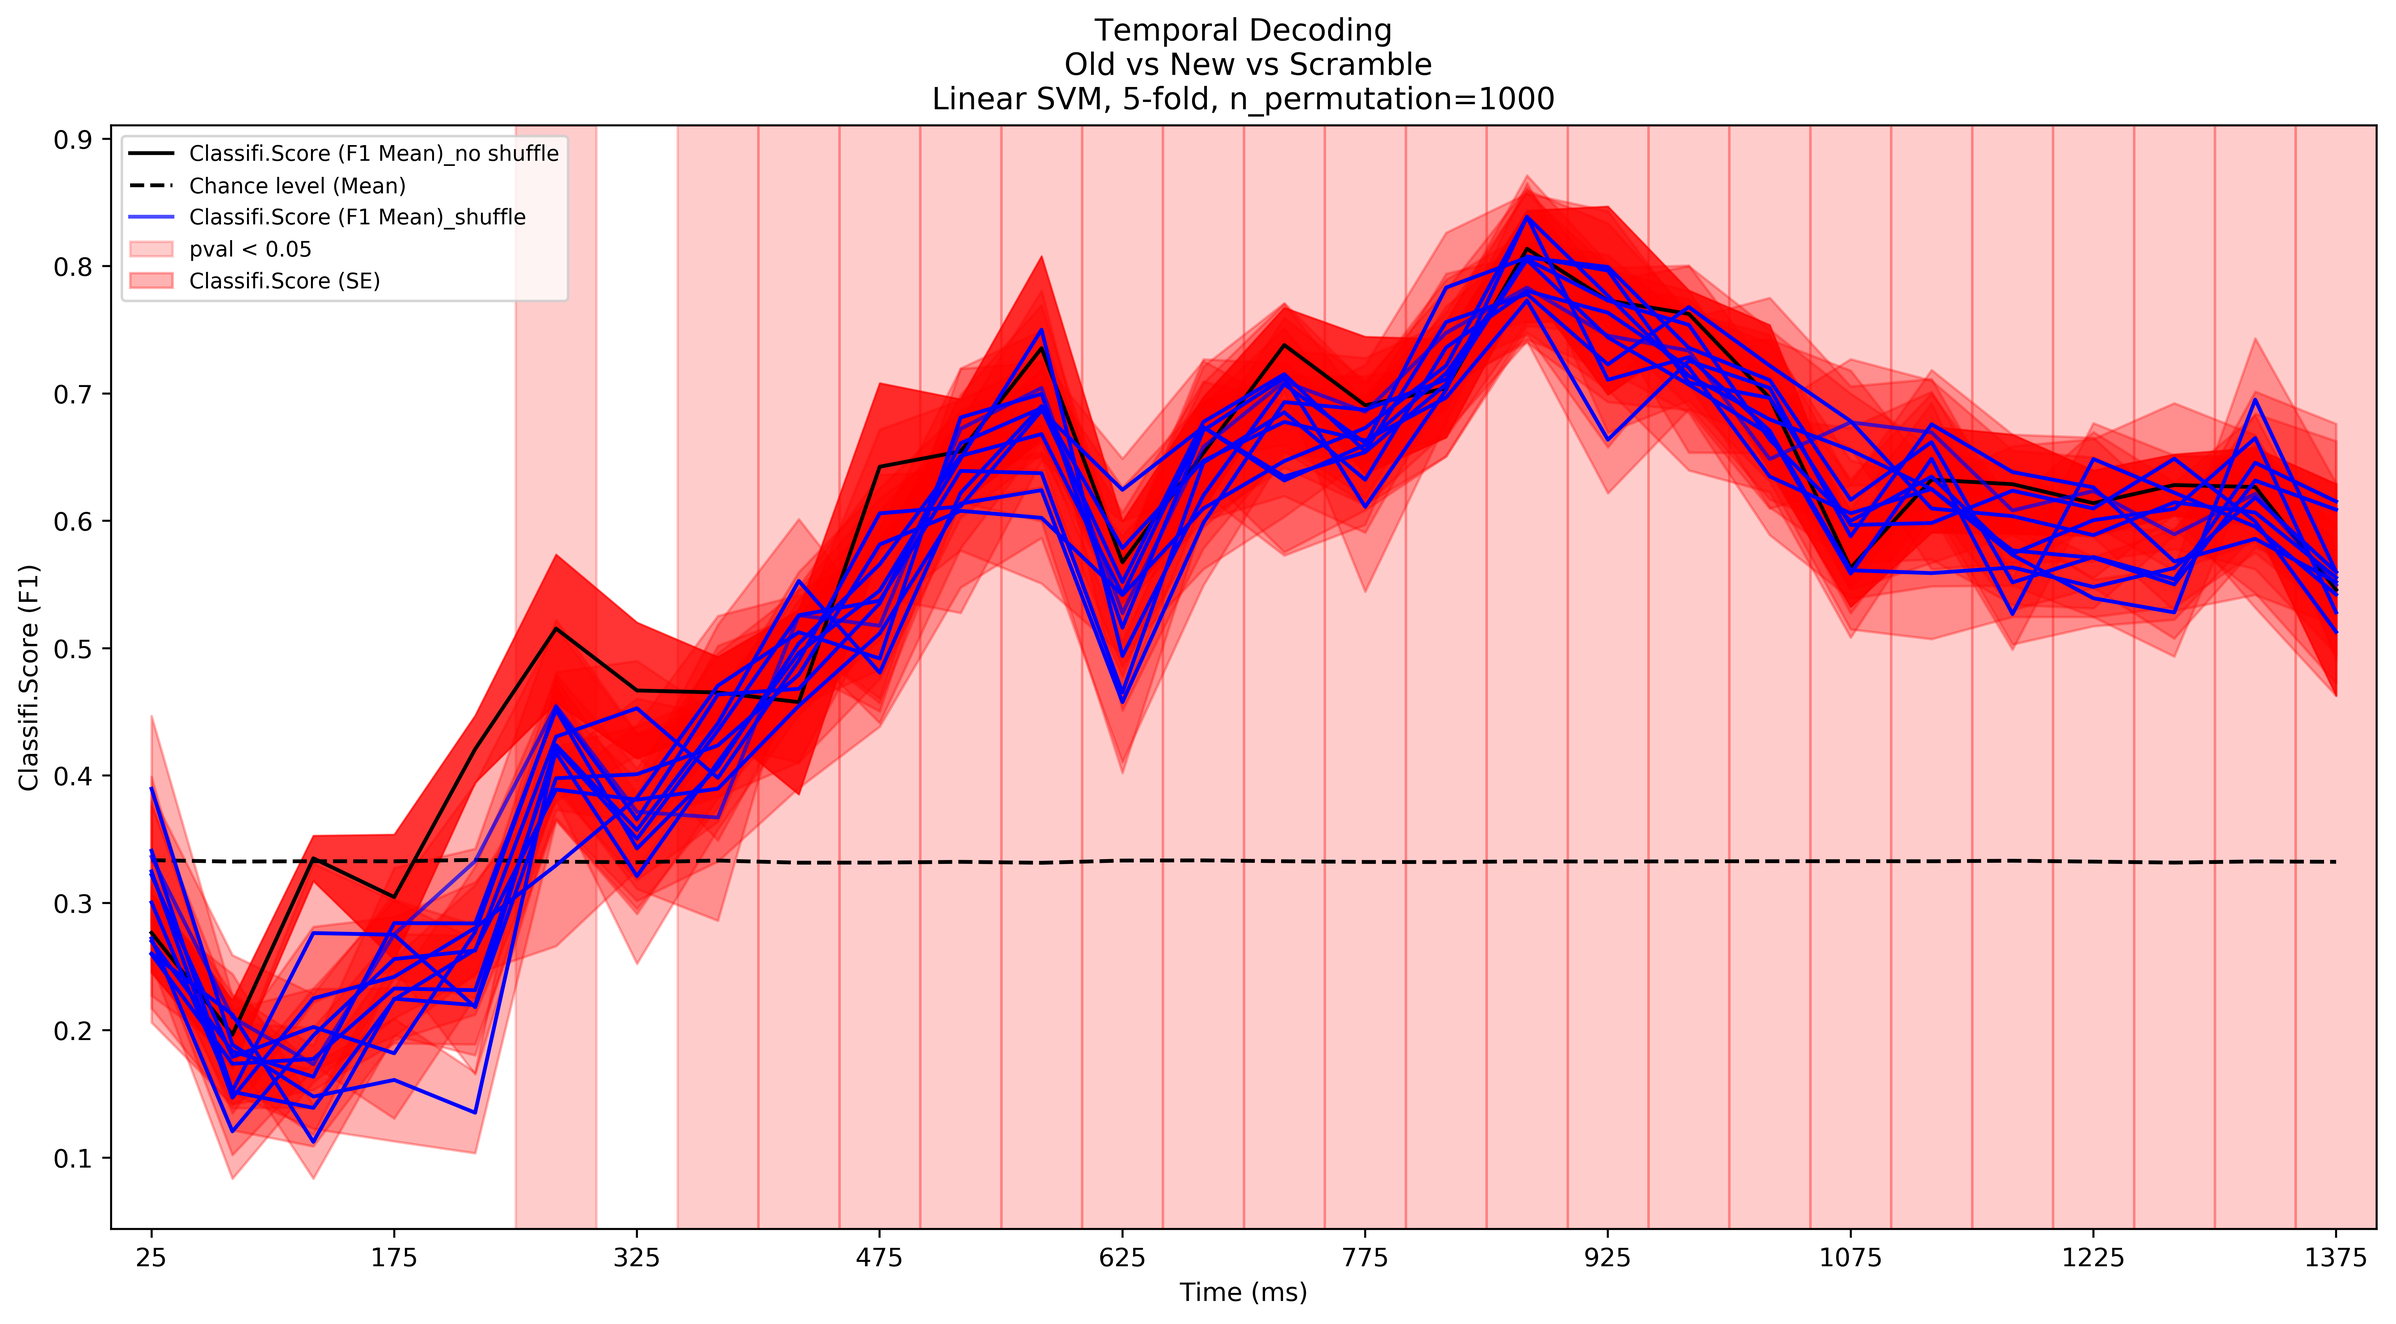
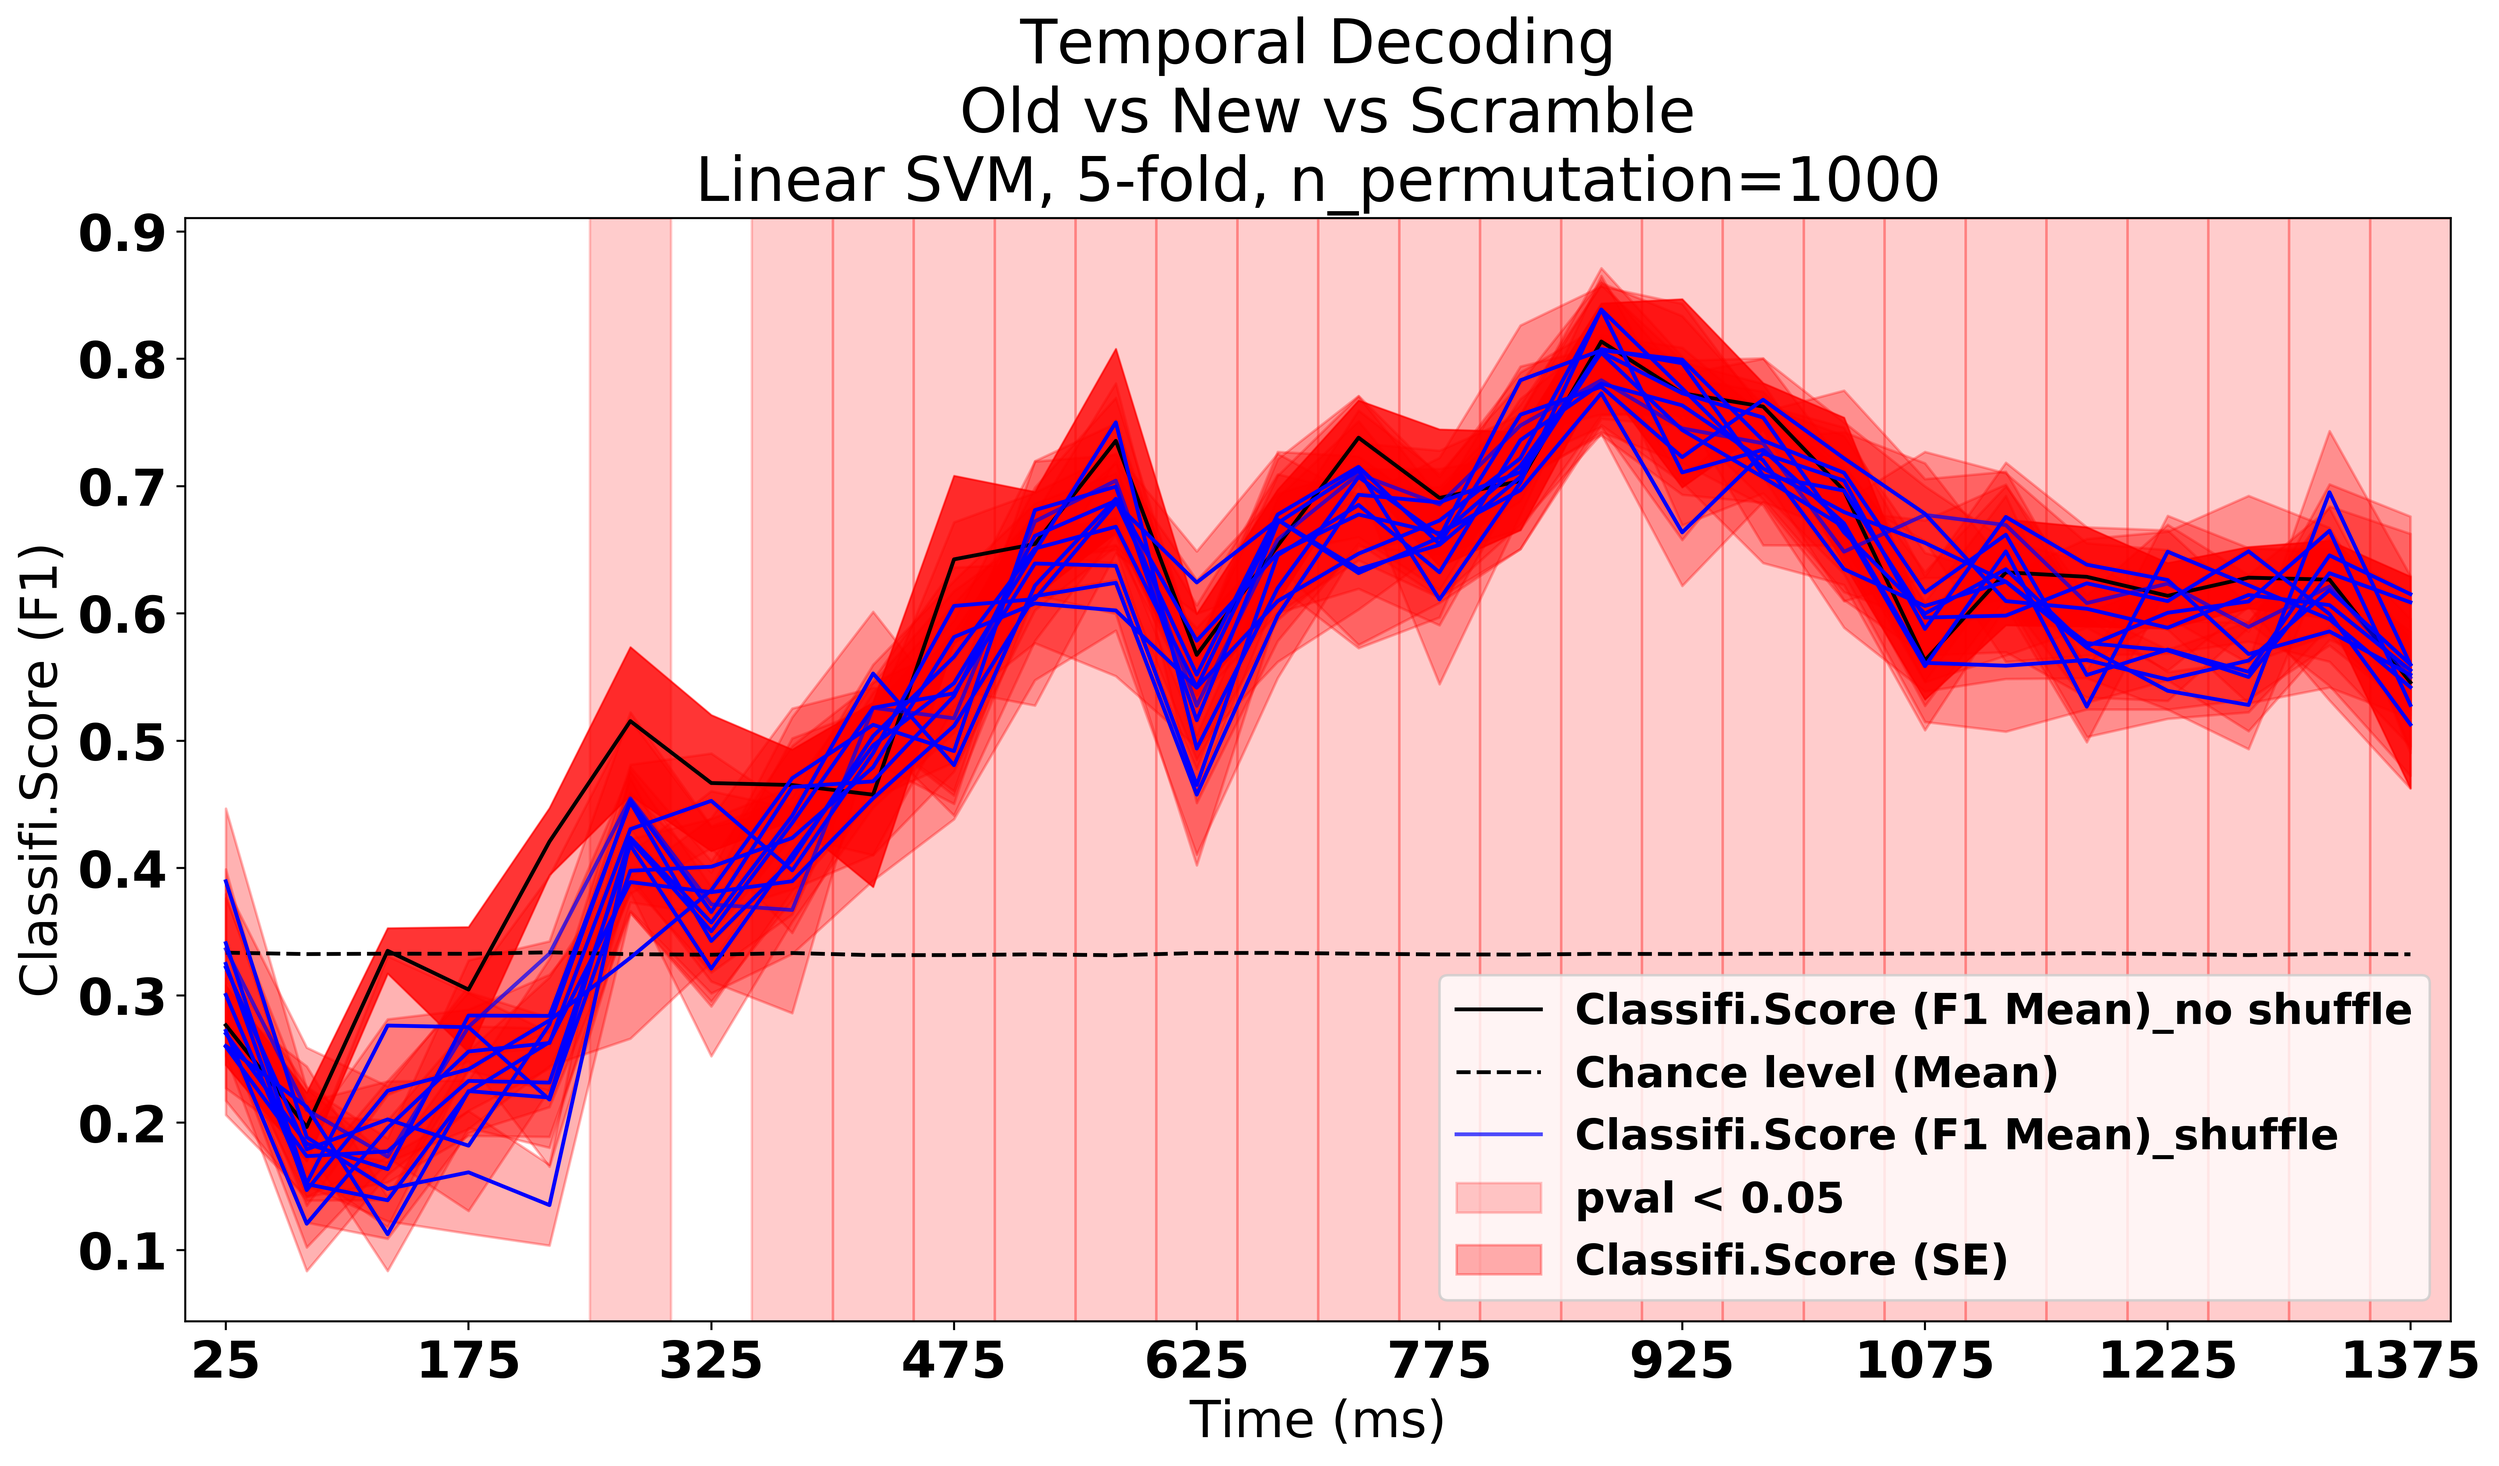
update

diff --git a/scripts/vcrt shuflling (3 classes).py b/scripts/vcrt shuflling (3 classes).py
@@ -253,7 +253,11 @@ no_shuffle = results[0]
 shuffle = results[1:] 
 import mne
 epochs = mne.read_epochs('D://Epochs//3 class-epo.fif',preload=False)
-
+font = {
+        'weight' : 'bold',
+        'size'   : 20}
+import matplotlib
+matplotlib.rc('font', **font)
 fig,ax = plt.subplots(figsize=(16,8))
 times = np.linspace(25,1375,28)
 ax.plot(times,no_shuffle['scores_mean'],color='k',alpha=1.,label='Classifi.Score (F1 Mean)_no shuffle')
@@ -281,7 +285,7 @@ for ii,idx in enumerate(pval_idx):
     else:
         ax.axvspan(times[idx]-25,times[idx]+25,color='red',alpha=.2)
 ax.legend(fontsize='small')   
-fig.savefig(working_dir+'old vs new vs scr temporal decoding.png',dpi=500,bbox_inches = 'tight') 
+fig.savefig('D:\\NING - spindle\\VCRT_study\\results\\'+'old vs new vs scr temporal decoding.png',dpi=500,bbox_inches = 'tight') 
 
 
 

diff --git a/scripts/vcrt shuflling.py b/scripts/vcrt shuflling.py
@@ -268,7 +268,11 @@ no_shuffle = results[0]
 shuffle = results[1:] 
 import mne
 epochs = mne.read_epochs('D://Epochs//old vs new-epo.fif',preload=False)
-
+font = {
+        'weight' : 'bold',
+        'size'   : 20}
+import matplotlib
+matplotlib.rc('font', **font)
 fig,ax = plt.subplots(figsize=(16,8))
 times = np.linspace(25,1375,28)
 ax.plot(times,no_shuffle['scores_mean'],color='k',alpha=1.,label='Classifi.Score (AUC Mean)_no shuffle')
@@ -296,7 +300,7 @@ for ii,idx in enumerate(pval_idx):
     else:
         ax.axvspan(times[idx]-25,times[idx]+25,color='red',alpha=.2)
 ax.legend(fontsize='small')     
-fig.savefig(working_dir+'old vs new temporal decoding.png',dpi=500,bbox_inches = 'tight')  
+fig.savefig('D:\\NING - spindle\\VCRT_study\\results\\'+'old vs new temporal decoding.png',dpi=500,bbox_inches = 'tight')  
 
 
     
